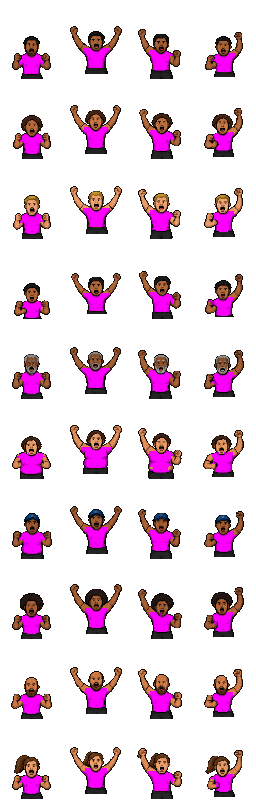
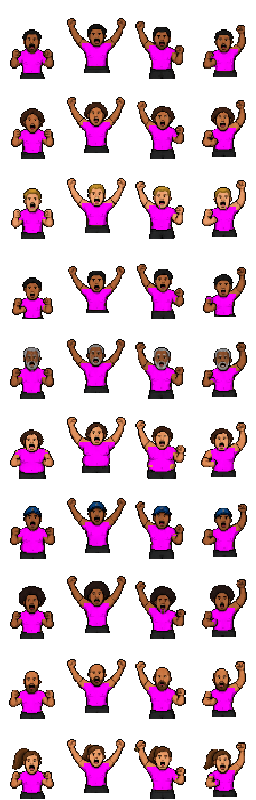
Torcida v3 do tamanho de antes: cada célula ampliada 55/48 com o pé fixo

diff --git a/src/game/torcida.test.ts b/src/game/torcida.test.ts
@@ -182,4 +182,31 @@ describe('atlas da torcida que a Luta carrega', () => {
       }
     }
   });
+
+  // A v3 chegou desenhada menor na célula e a arquibancada encolheu na Luta
+  // (João, 03/11/2026): o torcedor tem o tamanho do atlas antigo.
+  it('desenha o torcedor do tamanho do atlas antigo', () => {
+    const { celulaLargura: cl, celulaAltura: ca } = dados.folhas.torcedores;
+    const alturaMediana = (png: string): number => {
+      const { largura, altura, pixels } = lerPng(resolve(pasta, png));
+      const alturas: number[] = [];
+      for (let cy = 0; cy < altura; cy += ca) {
+        for (let cx = 0; cx < largura; cx += cl) {
+          let topo = ca;
+          let base = -1;
+          for (let y = 0; y < ca; y += 1) {
+            for (let x = 0; x < cl; x += 1) {
+              if (pixels[((cy + y) * largura + cx + x) * 4 + 3] > 40) {
+                topo = Math.min(topo, y);
+                base = y;
+              }
+            }
+          }
+          alturas.push(base - topo + 1);
+        }
+      }
+      return alturas.sort((a, b) => a - b)[Math.floor(alturas.length / 2)];
+    };
+    expect(Math.abs(alturaMediana(arquivo) - alturaMediana('torcedores.png'))).toBeLessThanOrEqual(2);
+  });
 });

diff --git a/scripts/torcida_camisa.py b/scripts/torcida_camisa.py
@@ -5,7 +5,8 @@ a camisa entra depois, por cima. Este script pinta, em cada um dos 40
 quadros, uma camiseta de manga curta no tronco, em magenta com a sombra da
 pele, e o motor troca o magenta pela estampa do clube de cada lado
 (src/game/torcida.ts, pintarChave). A animação fica pixel por pixel a
-aprovada; só a pele do tronco muda de cor.
+aprovada; só a pele do tronco muda de cor. Depois cada célula é ampliada
+até o tamanho do atlas antigo (AMPLIACAO).
 
     python scripts/torcida_camisa.py            gera atlas e prévia
     python scripts/torcida_camisa.py --sem 3 9  deixa os tipos 3 e 9 sem camisa
@@ -31,6 +32,11 @@ CEL_L, CEL_A = 64, 80
 MANGA = 6  # quanto a camiseta abre além da cintura na altura dos ombros
 # Brilho do magenta no atlas antigo: metade em 255, o mais escuro perto de 176.
 BRILHO_MIN, BRILHO_MAX = 0.62, 1.0
+# A v3 veio desenhada menor na célula (mediana de 48 px de altura contra 55 no
+# atlas antigo) e a arquibancada encolheu na Luta (João, 03/11/2026). Cada
+# célula é ampliada com o pé fixo no meio da base, sem misturar cores, para a
+# chave magenta continuar exata.
+AMPLIACAO = 55 / 48
 
 
 def lum(p):
@@ -163,6 +169,18 @@ def vestir(origem, sem):
     return im, relatorio
 
 
+def ampliar(im):
+    """Amplia cada célula por AMPLIACAO, ancorada no meio da base."""
+    saida = Image.new('RGBA', im.size)
+    largura, altura = round(CEL_L * AMPLIACAO), round(CEL_A * AMPLIACAO)
+    sobra_x = (largura - CEL_L) // 2
+    for y0 in range(0, im.height, CEL_A):
+        for x0 in range(0, im.width, CEL_L):
+            cel = im.crop((x0, y0, x0 + CEL_L, y0 + CEL_A)).resize((largura, altura), Image.NEAREST)
+            saida.paste(cel.crop((sobra_x, altura - CEL_A, sobra_x + CEL_L, altura)), (x0, y0))
+    return saida
+
+
 def previa(original, vestido):
     """Original, vestido e vestido com uma estampa de teste, lado a lado, ampliados."""
     def pintado(cor):
@@ -186,8 +204,9 @@ def main():
     ap = argparse.ArgumentParser()
     ap.add_argument('--sem', type=int, nargs='*', default=[], help='tipos (0 a 9) que ficam sem camisa')
     args = ap.parse_args()
-    original = Image.open(ORIGEM).convert('RGBA')
+    original = ampliar(Image.open(ORIGEM).convert('RGBA'))
     vestido, relatorio = vestir(ORIGEM, set(args.sem))
+    vestido = ampliar(vestido)
     vestido.save(DESTINO)
     PREVIA.mkdir(parents=True, exist_ok=True)
     previa(original, vestido).save(PREVIA / 'contato.png')

diff --git a/docs/diario-de-bordo.md b/docs/diario-de-bordo.md
@@ -3423,3 +3423,28 @@ com a comemoração nova.
 **Atrito:** o pedido "sem camisa" foi lido como figurino final.
 **Em aberto:** um ou dois pixels de pele na dobra da barriga do tipo 5, que
 somem na escala 0,32 do jogo.
+
+## 2026-11-03: torcida da comemoração v3 do tamanho de antes
+
+**Marco:** 2, segue em andamento.
+**Pedido:** "a torcida ficou diferente de como era antes. Olhe o tamanho
+dos torcedores na versão publicada" (print do localhost ao lado do Vercel).
+**Feito:** causa medida: a v3 foi desenhada menor dentro da mesma célula
+64×80 (mediana de 48 px de altura contra 55 no atlas antigo, uns 86%), e a
+cena usa a mesma escala para as duas. `scripts/torcida_camisa.py` ganhou
+`ampliar`: cada célula cresce 55/48 com o pé fixo no meio da base, sem
+misturar cores (a chave magenta continua exata). Nada sai da célula (x de 3
+a 62, topo em 16). Bandeira e sinalizador continuam no lugar, porque são
+posicionados pela célula. Teste novo: a altura mediana do torcedor no atlas
+carregado fica a 2 px da do atlas antigo.
+**Verificado:** `npm run check` (33 arquivos, 315 testes, build). O teste
+novo falhou com 7 px de diferença antes da ampliação. Luta Urubu x
+Almirante pelo navegador: arquibancada no tamanho do Vercel, com a
+comemoração e as camisas dos dois lados.
+**Créditos gastos:** nada.
+**Refeito ou apagado a pedido dele:** o tamanho menor da torcida v3.
+**Aprovado explicitamente:** nada ainda.
+**Atrito:** o meu servidor de teste dividia a porta 5199 com a galeria do
+Codex (`scripts/galeria.mjs`); a página abria a galeria, não o jogo.
+Servidor de teste agora na 5198.
+**Em aberto:** nada.

diff --git a/docs/licoes.md b/docs/licoes.md
@@ -570,3 +570,9 @@ Coisas que ele aprovou de forma explícita, ou que repetiu como regra.
   (magenta). Atlas novo de torcida entra pela camisa em magenta
   (`scripts/torcida_camisa.py` veste por cima sem redesenhar), e o teste em
   `torcida.test.ts` derruba atlas sem chave (2026-11-03).
+
+- **Arte nova de torcida tem o tamanho da antiga.** A v3 chegou desenhada
+  menor na mesma célula e a arquibancada encolheu na Luta sem ninguém pedir;
+  o João notou comparando com o Vercel. Atlas novo de torcedor entra medido
+  contra `torcedores.png` (altura mediana do desenho na célula), e o teste em
+  `torcida.test.ts` cobra (2026-11-03).
